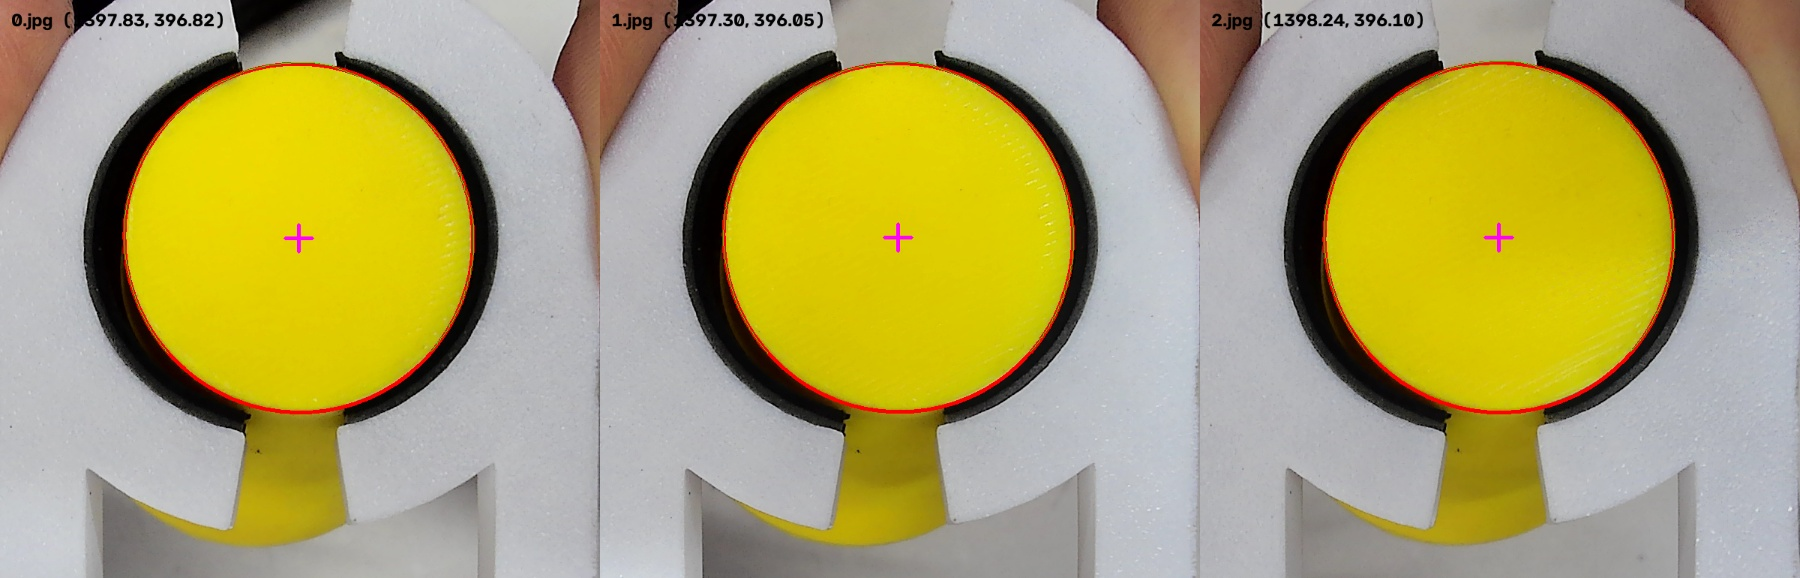
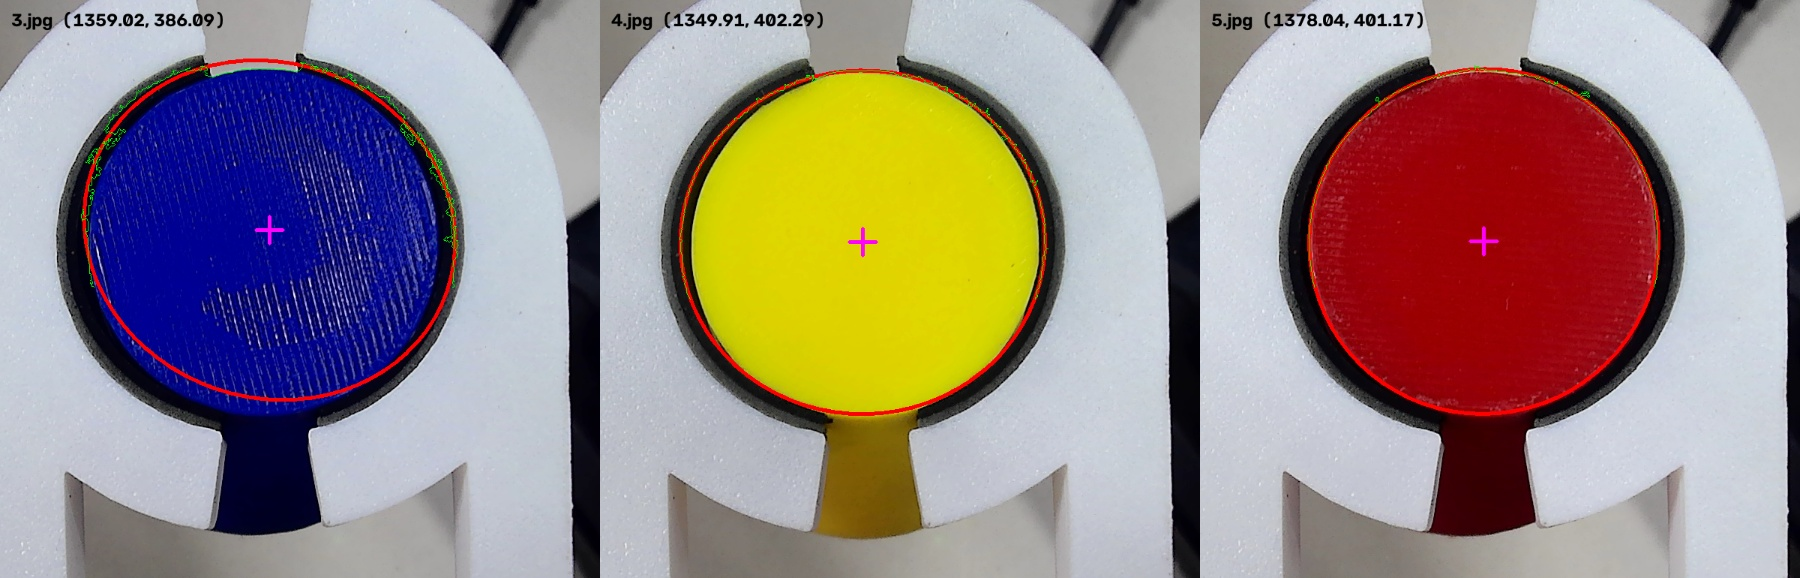
Update grasp center from photos 3 4 5

diff --git a/vision_target_ring_pc/calibrate_grasp_photos.py b/vision_target_ring_pc/calibrate_grasp_photos.py
@@ -8,21 +8,31 @@ import cv2
 import numpy as np
 
 
-def measure(path, saturation=100):
+PHOTO_SETTINGS = {
+    "3.jpg": ((90, 35, 20), (145, 255, 255), (1080, 150, 1650, 650)),
+    "4.jpg": ((18, 35, 20), (42, 255, 255), (1080, 150, 1650, 650)),
+    "5.jpg": ((0, 25, 20), (179, 255, 255), (1080, 150, 1650, 650)),
+}
+
+
+def measure(path):
     frame = cv2.imdecode(np.fromfile(path, dtype=np.uint8), cv2.IMREAD_COLOR)
     if frame is None or frame.shape[:2] != (1440, 2560):
         raise ValueError("Expected a 2560x1440 calibration photograph")
     hsv = cv2.cvtColor(frame, cv2.COLOR_BGR2HSV)
-    mask = cv2.inRange(hsv, (18, saturation, 100), (40, 255, 255))
-    # Photo-specific ROI excludes background objects; it contains the full top.
+    name = Path(path).name
+    lower, upper, (x1, y1, x2, y2) = PHOTO_SETTINGS[name]
+    mask = cv2.inRange(hsv, lower, upper)
     roi = np.zeros(mask.shape, np.uint8)
-    roi[100:850, 1100:1700] = mask[100:850, 1100:1700]
+    roi[y1:y2, x1:x2] = mask[y1:y2, x1:x2]
     contours, _ = cv2.findContours(roi, cv2.RETR_EXTERNAL, cv2.CHAIN_APPROX_NONE)
-    points = max(contours, key=cv2.contourArea).reshape(-1, 2)
-    delta = points - np.array([1400, 400])
-    radius = np.linalg.norm(delta, axis=1)
-    # Omit the lower arc where the yellow sidewall joins the yellow top face.
-    points = points[(radius > 170) & (radius < 280) & (delta[:, 1] < radius * 0.65)]
+    candidates = [c for c in contours if cv2.contourArea(c) > 50000]
+    if not candidates:
+        raise ValueError("top-face contour not found in %s" % name)
+    points = max(candidates, key=cv2.contourArea).reshape(-1, 2)
+    # The lower neck is not part of the top face. Keep the upper circular arc.
+    rough = np.mean(points, axis=0)
+    points = points[points[:, 1] < rough[1] + 65]
     ellipse = cv2.fitEllipse(points.astype(np.float32))
     center, axes, angle = ellipse
     theta = np.deg2rad(angle)
@@ -40,14 +50,12 @@ def main():
     output.mkdir(exist_ok=True)
     measurements = []
     previews = []
-    for name in ("0.jpg", "1.jpg", "2.jpg"):
+    for name in ("3.jpg", "4.jpg", "5.jpg"):
         path = root / "picture" / name
         frame, points, ellipse, residual = measure(path)
-        centers = [measure(path, saturation)[2][0] for saturation in (80, 100, 120, 140)]
         row = {"photo": name, "sha256": hashlib.sha256(path.read_bytes()).hexdigest(),
                "size": [2560, 1440], "center": list(ellipse[0]),
-               "ellipse_axes": list(ellipse[1]), "arc_fit_rms_px": residual,
-               "threshold_center_span_px": np.ptp(centers, axis=0).tolist()}
+               "ellipse_axes": list(ellipse[1]), "arc_fit_rms_px": residual}
         measurements.append(row)
         cv2.ellipse(frame, ellipse, (0, 0, 255), 3)
         frame[points[:, 1], points[:, 0]] = (0, 255, 0)

diff --git a/vision_target_ring_maixcam/config.py b/vision_target_ring_maixcam/config.py
@@ -1,9 +1,9 @@
 """Deployment settings. Coordinates and tolerances are image pixels."""
 
 WIDTH, HEIGHT = 640, 480
-# 2026-10-07 top-face fit; assumes default centered 16:9 -> 4:3 camera crop.
+# 2026-10-07 photos 3/4/5 mean top-face center; assumes centered 16:9 -> 4:3 crop.
 # Verify the magenta cross in the live 640x480 stream before robot motion.
-REFERENCE_X, REFERENCE_Y = 359.3, 132.1
+REFERENCE_X, REFERENCE_Y = 347.4, 132.2
 START_MODE = "IDLE"
 UART_ENABLED = True
 UART_DEVICE = "/dev/ttyS0"

diff --git a/vision_target_ring_maixcam/calibration.py b/vision_target_ring_maixcam/calibration.py
@@ -5,7 +5,7 @@ from __future__ import annotations
 import math
 import config
 
-# Gripped top-face center measured from the 2026-10-07 photos.
+# Gripped top-face center measured from photos 3/4/5 on 2026-10-07.
 # Mapping assumes a centered 1920x1440 crop scaled to 640x480; no padding.
 # This remains a pixel-space offset reference, not a millimetre/world map.
 DEFAULT_REFERENCE_X = config.REFERENCE_X

diff --git a/vision_target_ring_pc/calibration_20261007/README.md b/vision_target_ring_pc/calibration_20261007/README.md
@@ -1,16 +1,16 @@
 # 2026-10-07 抓取参考点测量
 
-原图：`../../picture/0.jpg`、`1.jpg`、`2.jpg`，均为 2560×1440。
+原图：`../../picture/3.jpg`、`4.jpg`、`5.jpg`，均为 2560×1440。
 测量对象为夹持物料的黄色顶部圆面；假定物料在夹具中已经居中。
 照片不能独立证明圆面中心与机械抓取轴完全重合。
 
 | 照片 | 圆面中心 x | 圆面中心 y | 圆弧拟合 RMS（像素） |
 | --- | ---: | ---: | ---: |
-| 0.jpg | 1397.83 | 396.82 | 0.90 |
-| 1.jpg | 1397.30 | 396.05 | 0.78 |
-| 2.jpg | 1398.24 | 396.10 | 0.99 |
+| 3.jpg | 1359.02 | 386.09 | 6.28 |
+| 4.jpg | 1349.91 | 402.29 | 1.73 |
+| 5.jpg | 1378.04 | 401.17 | 2.17 |
 
-原图平均中心 `(1397.79, 396.32)`，样本标准差约 `(0.47, 0.43)` 像素。
+原图平均中心 `(1362.32, 396.52)`，样本标准差约 `(14.35, 9.05)` 像素。
 这是三帧重复性，不是实际抓取精度保证。
 
 方法：在夹持圆面区域分割黄色，排除底部与黄色侧壁相连的圆弧，
@@ -26,11 +26,11 @@
 说明宽高比不同时一般居中裁剪。按默认采集方式，将原图左右各裁掉
 320 像素，1920×1440 缩放至 640×480：
 
-`x = (1397.79 - 320) / 3 = 359.26`
+`x = (1362.32 - 320) / 3 = 347.44`
 
-`y = 396.32 / 3 = 132.11`
+`y = 396.52 / 3 = 132.17`
 
-配置为 `(359.3, 132.1)`。此前的补边映射没有依据，已移除。
+配置为 `(347.4, 132.2)`。此前的补边映射没有依据，已移除。
 这仍以照片和运行画面使用同一传感器视野、方向、默认居中裁剪为前提；
 若存在镜像、旋转、自定义裁剪或不同传感器模式，必须用实际 640×480 帧复核。
 拍照来源和运行视野尚未得到实机确认，不能仅凭这三张照片保证坐标映射。
